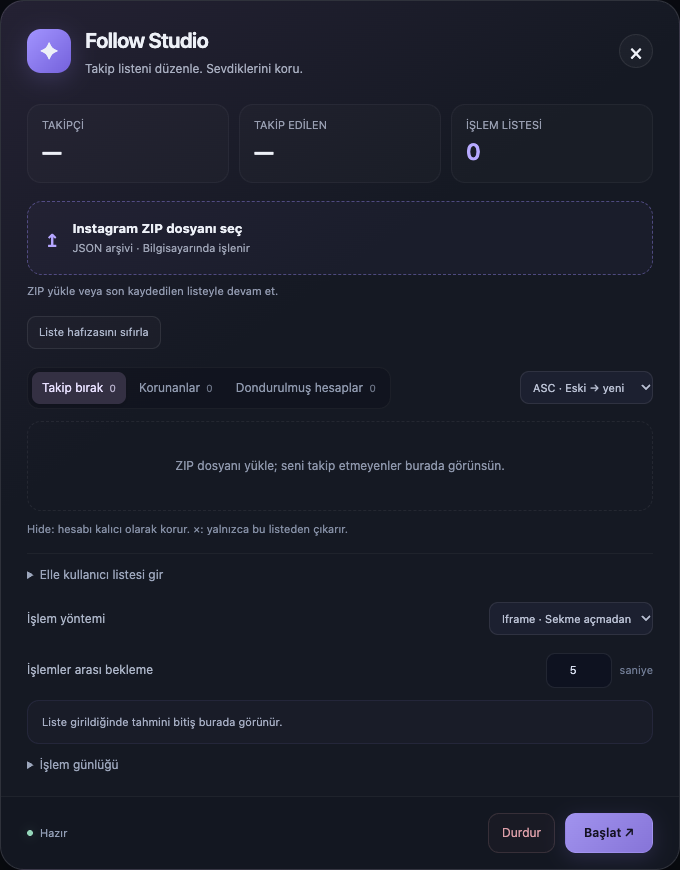
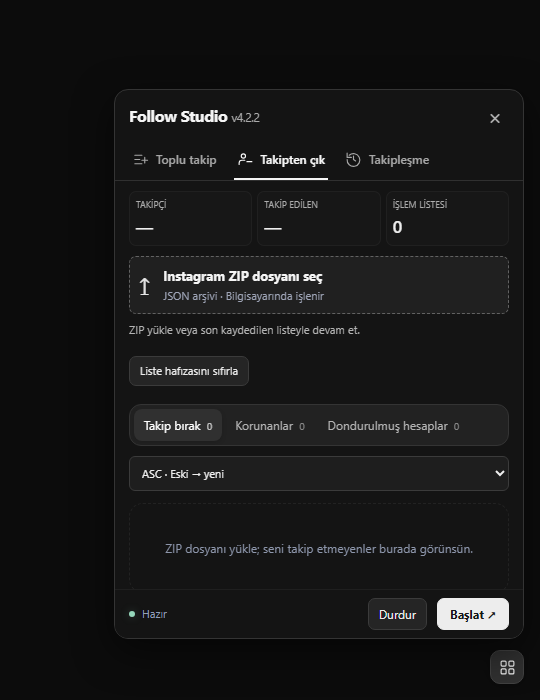
Update README for three-tool interface and refresh screenshots

diff --git a/README.md b/README.md
@@ -15,12 +15,22 @@
   <a href="#need-help">Need help?</a>
 </p>
 
-Follow Studio compares the accounts you follow with the followers listed in your Instagram data download. You can review the results, protect accounts you want to keep, and start an unfollow queue when you are ready.
+Follow Studio **v4.2.2** brings three tools into a compact, dark panel on Instagram: a follow queue, an archive-based unfollow list, and dated follower / mutual-follow comparisons. Each tool has its own tab and saved state.
 
 **For desktop Chrome and Brave.** The app's buttons are currently in Turkish; this guide explains them in English. You do not need Violentmonkey for the browser extension.
 
 > [!IMPORTANT]
-> Results describe **the data in your Instagram ZIP**, not a live check of who follows you now. An incomplete or outdated export can produce incorrect candidates. Download **all-time** data and review the list before starting.
+> The **unfollow list** describes the data in your Instagram ZIP, not a live check of who follows you now. An incomplete or outdated export can produce incorrect candidates. Download **all-time** data and review the list before starting.
+
+## Three tools, one panel
+
+| Tab in the app | Use it to | Start here |
+| --- | --- | --- |
+| **Toplu takip** | Build and run a follow queue | [Follow queue](#build-a-follow-queue) |
+| **Takipten çık** | Review an Instagram export and unfollow selected candidates | [Unfollow list](#open-your-list-and-review-it) |
+| **Takipleşme** | Compare dated snapshots of followers and following | [Relationship history](#track-follower-and-mutual-follow-changes) |
+
+The panel opens on **Toplu takip**. Switching tabs shows only the selected tool. List transfer, timing, history, and logs sit in expandable sections.
 
 ## Install Follow Studio
 
@@ -59,6 +69,10 @@ Click **Load unpacked**, then select the extracted **follow-studio** folder.
    ├── manifest.json
    ├── background.js
    ├── bridge.js
+   ├── follow-queue.js
+   ├── follow-content.js
+   ├── relationships.js
+   ├── relationships-content.js
    └── content.js
 ```
 
@@ -68,7 +82,7 @@ A **Follow Studio** card should appear on the extensions page. Make sure its on/
 
 Open **[www.instagram.com](https://www.instagram.com/)** and sign in normally. If Instagram was already open, **reload the page**.
 
-Click **✦ Follow Studio** in the bottom-right corner. The panel stays closed until you open it. You can also open it from the browser's extensions menu while Instagram is open.
+Click the **four-square Follow Studio tools icon** in the bottom-right corner. The panel stays closed until you open it; click the icon again or use **×** to close it. A nearby person-plus icon adds the currently opened profile to the follow queue without opening the panel. You can also open the panel from the browser's extensions menu while Instagram is open.
 
 > [!TIP]
 > Already using the old Violentmonkey version? Turn that script **off** first. Its saved lists and protected accounts do not move into the standalone extension automatically. Import your ZIP again and protect the accounts you want to keep before starting.
@@ -98,15 +112,31 @@ To request the second file:
 
 Keep the Instagram ZIP private. You do not need to send it to us or upload it to GitHub.
 
+## Build a follow queue
+
+<p align="center">
+  <img src="docs/assets/panel-follow.png" alt="Follow Studio v4.2.2: Toplu takip tab with an empty queue, Start and Stop, expanded list transfer controls, timing and follow history." width="540">
+</p>
+
+1. Open a profile on Instagram and use the **person-plus icon** beside the panel launcher to add it to the queue. This does not start following immediately.
+2. Or open **Toplu takip → Liste ekle ve taşı**, paste one username per line, and click **Listeyi kuyruğa ekle**. Duplicates and names already recorded in follow history are skipped; profiles awaiting review stay in their separate unverified list.
+3. Expand **Zamanlama** to choose the interval range in **minutes**, group size, extra group rest, and session limit. Defaults are **5–5 minutes**, **5 profiles per group**, a **30-minute group rest**, and **10 profiles per session**. These settings do not guarantee freedom from Instagram restrictions.
+4. Click **Başlat**. The queue uses inactive worker tabs and verifies the profile state after reloading before recording a follow or request. The machine is kept awake while this queue runs.
+5. Use **Durdur** to stop. Reaching the session limit keeps the remaining queue and requires a manual restart. Account changes or logout stop processing; resume with the original Instagram account.
+
+**Kalanları kopyala** pauses the queue and copies its remaining usernames. On another computer, sign in to the same Instagram account, paste them into the list field (or use **Panodan yapıştır**), then add them to the queue. If clipboard access fails, select and copy / paste the text manually. This transfers the remaining list, not saved history or settings.
+
+**Takip geçmişi** lists confirmed outcomes. Missing or unavailable profiles can be skipped while the queue continues; **Doğrulanamayan profiller** retains their details for review and manual requeue. Verification failures and Instagram restrictions stop the queue. **Hata günlüğü** retains failure details; requeueing does not erase previous attempts.
+
 ## Open your list and review it
 
 <p align="center">
-  <img src="docs/assets/panel.png" alt="The actual Follow Studio panel before importing any data. It shows the ZIP picker, Unfollow, Protected and Unavailable tabs, sorting, a five-second delay, and Start and Stop controls. The interface labels are in Turkish." width="680">
+  <img src="docs/assets/panel.png" alt="Follow Studio v4.2.2: Takipten çık tab with archive picker, counts, protected and unavailable sections, sorting, and Start and Stop in the footer." width="540">
 </p>
 
-<p align="center"><em>The actual panel, shown with no imported data or account names.</em></p>
+<p align="center"><em>Current extension UI rendered locally with mocked browser APIs, no imported data, and no real account names. All three panel images use this same setup.</em></p>
 
-1. Click **Instagram ZIP dosyanı seç** — this means **Choose your Instagram ZIP**.
+1. Select the **Takipten çık** tab, then click **Instagram ZIP dosyanı seç** — this means **Choose your Instagram ZIP**.
 2. Select the **personal ZIP downloaded from Instagram**, not the extension ZIP.
 3. Wait for the list to appear. These are accounts listed under **following** but missing from **followers** in that export.
 4. Use **Hide** on any account you want to keep following. It moves into the protected section.
@@ -130,6 +160,8 @@ Keep the Instagram ZIP private. You do not need to send it to us or upload it to
 
 ## Start when you are ready
 
+Expand **İşlem ayarları ve günlük** in the **Takipten çık** tab to see the unfollow settings and activity log. These settings are separate from the follow queue’s minute-based timing.
+
 - **İşlemler arası bekleme** means **wait between accounts**. The default is **5 seconds**. Page loading and processing take additional time; the estimate updates after the first result.
 - **İşlem yöntemi** means **processing method**. The default iframe option tries a hidden page first. If it cannot connect, the extension switches to background tabs. Those tabs close after processing.
 - Click **Başlat** to start. The counters change to **unfollowed**, **failed/skipped**, and **remaining**.
@@ -138,15 +170,32 @@ Keep the Instagram ZIP private. You do not need to send it to us or upload it to
 
 Your list is saved on this computer. You can reopen the panel later without choosing the same ZIP again. **Importing a new ZIP replaces the main list and the last run's results; protected and unavailable accounts are kept.**
 
+## Track follower and mutual-follow changes
+
+<p align="center">
+  <img src="docs/assets/panel-relationships.png" alt="Follow Studio v4.2.2: Takipleşme tab with username, first snapshot controls, archive import, change filters and check dates." width="540">
+</p>
+
+Open **Takipleşme** and enter your own Instagram username. Choose either way to create a snapshot:
+
+- **Live scan:** open your own profile and click **İlk kaydı oluştur**. Follow Studio reads the complete followers and following lists. Later, **Değişiklikleri kontrol et** compares the new complete scan with the previous snapshot. Partial lists, ambiguous counts, and another account's profile are rejected instead of replacing the baseline.
+- **Instagram archive:** expand **Instagram JSON arşivinden kayıt al**. Choose an all-time JSON ZIP containing both complete lists, enter the archive's preparation date, confirm it belongs to your account, then click **Arşivi kaydet ve karşılaştır**. Later archives must have a newer date. This import is separate from the unfollow list.
+
+The first snapshot establishes a baseline; it cannot reconstruct earlier changes. Subsequent snapshots record names missing from the followers or following list. Filter with **Tüm değişiklikler** (all changes), **Takipçi listenden çıkanlar** (lost followers), or **Biten takipleşmeler** (ended mutual follows). Expand **Kontrol tarihleri** to review snapshot dates.
+
+Dates describe the interval **between two snapshots**, not the exact time or reason a relationship changed. Blocking, account closure, and incomplete source data can affect what appears in a list.
+
 ## Need help?
 
 | What you see | What to try |
 | --- | --- |
 | **“Manifest file is missing”** during installation | The wrong folder was selected. Open the extracted folders until you see `manifest.json`, then select the folder containing it. If you downloaded the entire GitHub repository instead, select its **extension** folder. |
 | **No Load unpacked button** | Turn on **Developer mode** on the browser's extensions page. |
-| **No Follow Studio button on Instagram** | Check that the extension is enabled, open **www.instagram.com**, and reload the page. |
+| **No Follow Studio tools icon on Instagram** | Check that the extension is enabled, open **www.instagram.com**, and reload the page. |
 | **The ZIP will not load / JSON files not found** | Choose your **Instagram data ZIP**, not the extension ZIP. Request the export in **JSON**, with both followers and following included. |
 | **Someone who follows me appears in the list** | The archive may be outdated or incomplete. Stop, review the account on Instagram, and request a fresh **All time** export. The extension cannot confirm live follower status. |
+| **The follow queue stopped at its session limit** | Remaining profiles are saved. Review the queue and restart manually; it does not automatically continue after this limit. |
+| **Relationship history shows no changes** | The first snapshot is only a baseline. Create a later complete scan or import a newer complete archive for comparison. |
 | **The main list is empty** | There may be no unmatched accounts in that ZIP, or the candidates may already be protected, removed, processed, or in the unavailable section. |
 | **My old protected accounts are missing after switching from Monkey** | The two versions have separate storage. Protect those accounts again before starting in the extension. |
 | **I want to clear the current list** | Click **Liste hafızasını sıfırla**. It clears the main list and run summary, while keeping protected and unavailable accounts. |
@@ -170,11 +219,11 @@ Avoid removing and reinstalling the extension when updating: removal can delete 
 | Data | Where it goes |
 | --- | --- |
 | Your Instagram ZIP | Read locally in your browser; not sent to a Follow Studio server |
-| Parsed lists, ZIP filename, protected/unavailable accounts, and run summary | Saved in the extension's local storage; not Chrome Sync |
-| Unfollow actions | Sent to Instagram through your existing signed-in session |
+| Parsed lists, ZIP filename, protected/unavailable accounts, follow queue, settings, outcomes, logs, and dated relationship snapshots | Saved in the extension's local storage; not Chrome Sync |
+| Follow and unfollow actions, and live list scans | Use Instagram through your existing signed-in session |
 | Optional photo links | Open the linked image address only when you click them |
 
-Follow Studio has no analytics server, AI service, or API key requirement. It requests access to **www.instagram.com** and **local storage**. The repository and guide contain no personal exports or real Instagram account lists. To remove all saved extension data, uninstall the extension.
+Follow Studio has no analytics server, AI service, or API key requirement. It requests **www.instagram.com** access plus **storage**, **alarms** (queue scheduling), **cookies** (the Instagram account ID used to bind work to the signed-in account), and **power** (keeping the system awake during the follow queue). It does not need your password. The repository and guide contain no personal exports or real Instagram account lists. To remove all saved extension data, uninstall the extension.
 
 Follow Studio is independent of Instagram and Meta. It uses visible page controls, so changes to Instagram's interface can affect it.
 
@@ -200,9 +249,9 @@ npm run check
 npm run package
 ```
 
-The shared UI and export parser are in `instagram-follow-studio.user.js`. The build adapter generates `extension/content.js`; edit the source or adapter rather than that generated file. `extension/background.js` manages worker ownership and rechecks archive eligibility and protection before clicks.
+The shared UI and export parser are in `instagram-follow-studio.user.js`. The build adapter generates `extension/content.js`; edit the source or adapter rather than that generated file. `extension/background.js` manages worker ownership and rechecks archive eligibility and protection before unfollow clicks. `follow-queue.js` and `follow-content.js` manage the account-bound follow queue and panel tabs; `relationships.js` and `relationships-content.js` manage dated snapshots, live scans, and comparisons.
 
-Tests use synthetic data and mocked browser APIs. They do not connect to real Instagram accounts or perform live unfollows. The package command includes only the four extension files in `dist/follow-studio-chrome.zip`.
+Tests use synthetic data and mocked browser APIs. They do not connect to real Instagram accounts or perform live follows or unfollows. The package command includes only the eight extension files in `dist/follow-studio-chrome.zip`.
 
 </details>
 
